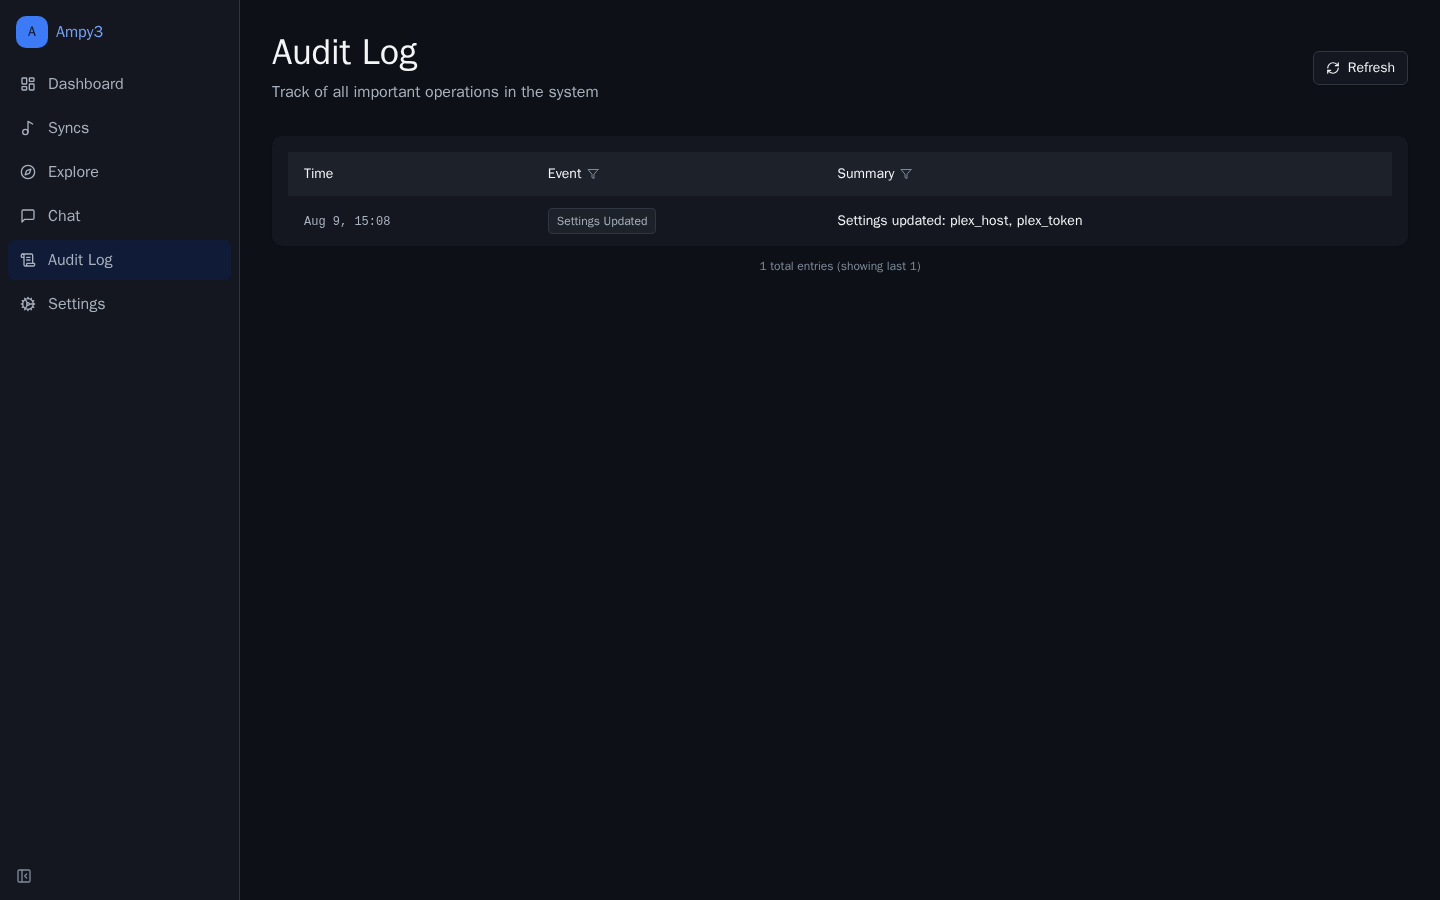
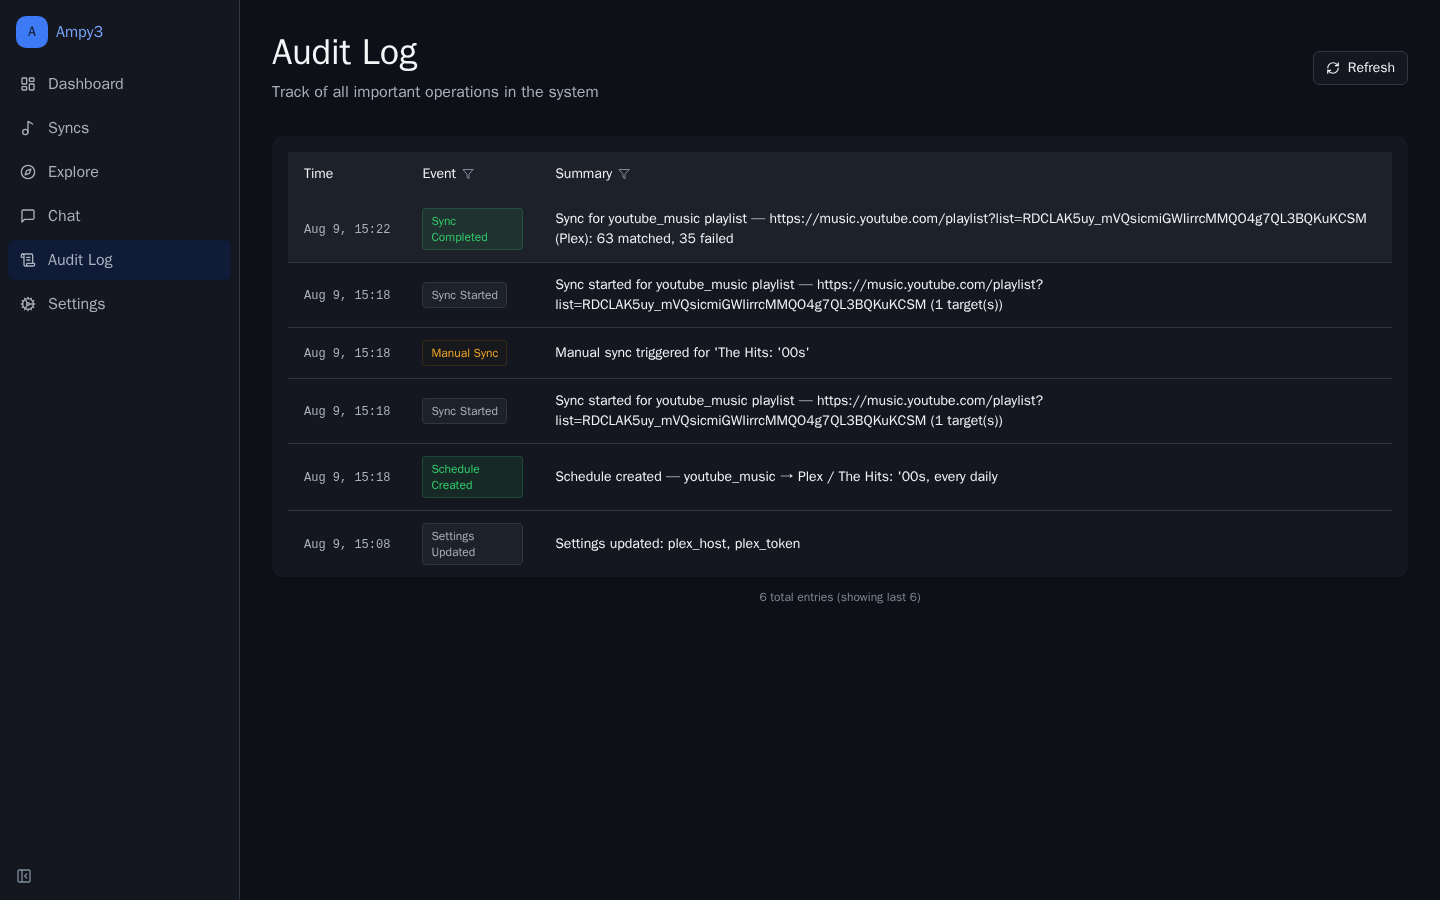
Refresh UI screenshots and tidy YTMusic call
Updates the audit, dashboard, and syncs screenshots, and simplifies the `asyncio.to_thread` call formatting in the YTMusic explore provider without changing behavior.

diff --git a/src/app/core/explore/providers/ytmusic.py b/src/app/core/explore/providers/ytmusic.py
@@ -116,9 +116,7 @@ class YTMusicExploreProvider(ExploreProvider):
     async def get_mood_playlists(self, mood_id: str) -> list[ExploreItem]:
         client = self._get_client()
         try:
-            raw_playlists: list[dict] = await asyncio.to_thread(
-                client.get_mood_playlists, mood_id
-            )
+            raw_playlists: list[dict] = await asyncio.to_thread(client.get_mood_playlists, mood_id)
         except (KeyError, TypeError, IndexError) as exc:
             logger.warning("Could not fetch playlists for mood %s: %s", mood_id, exc)
             return []
